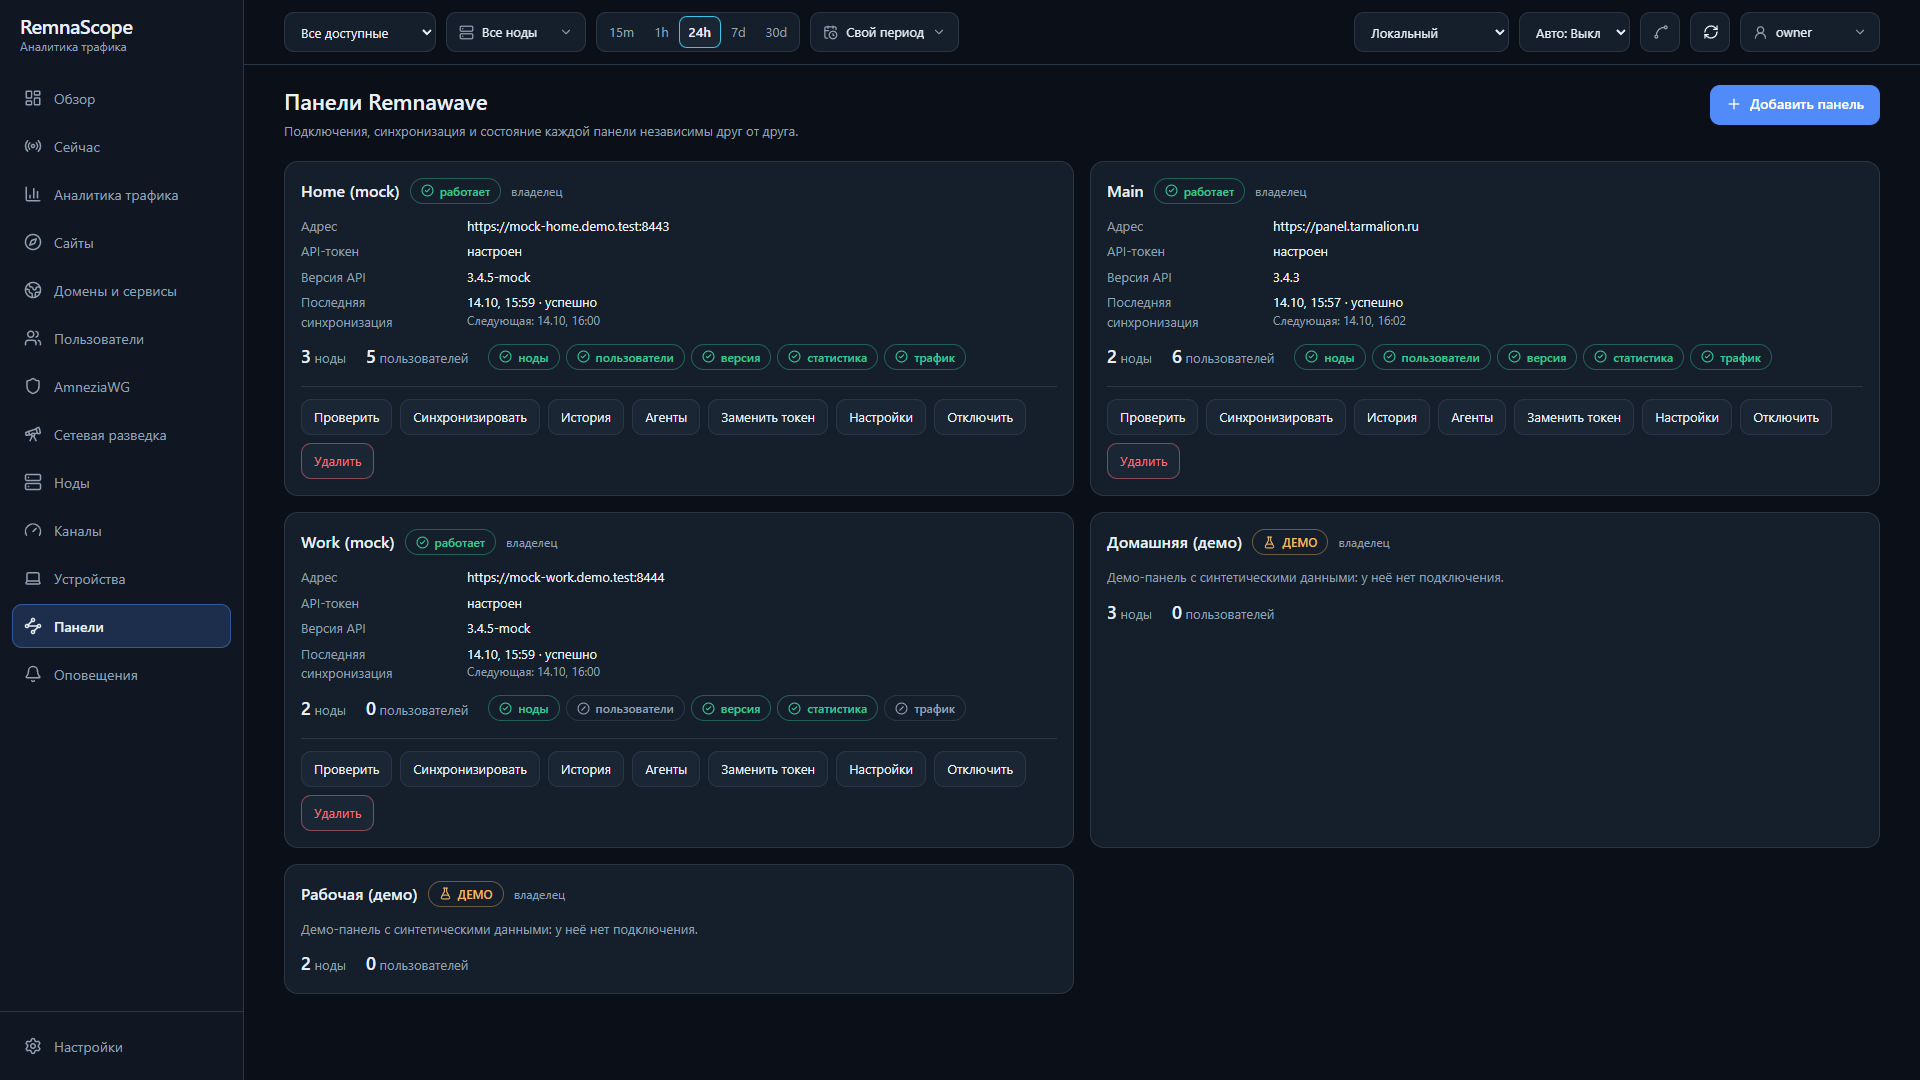
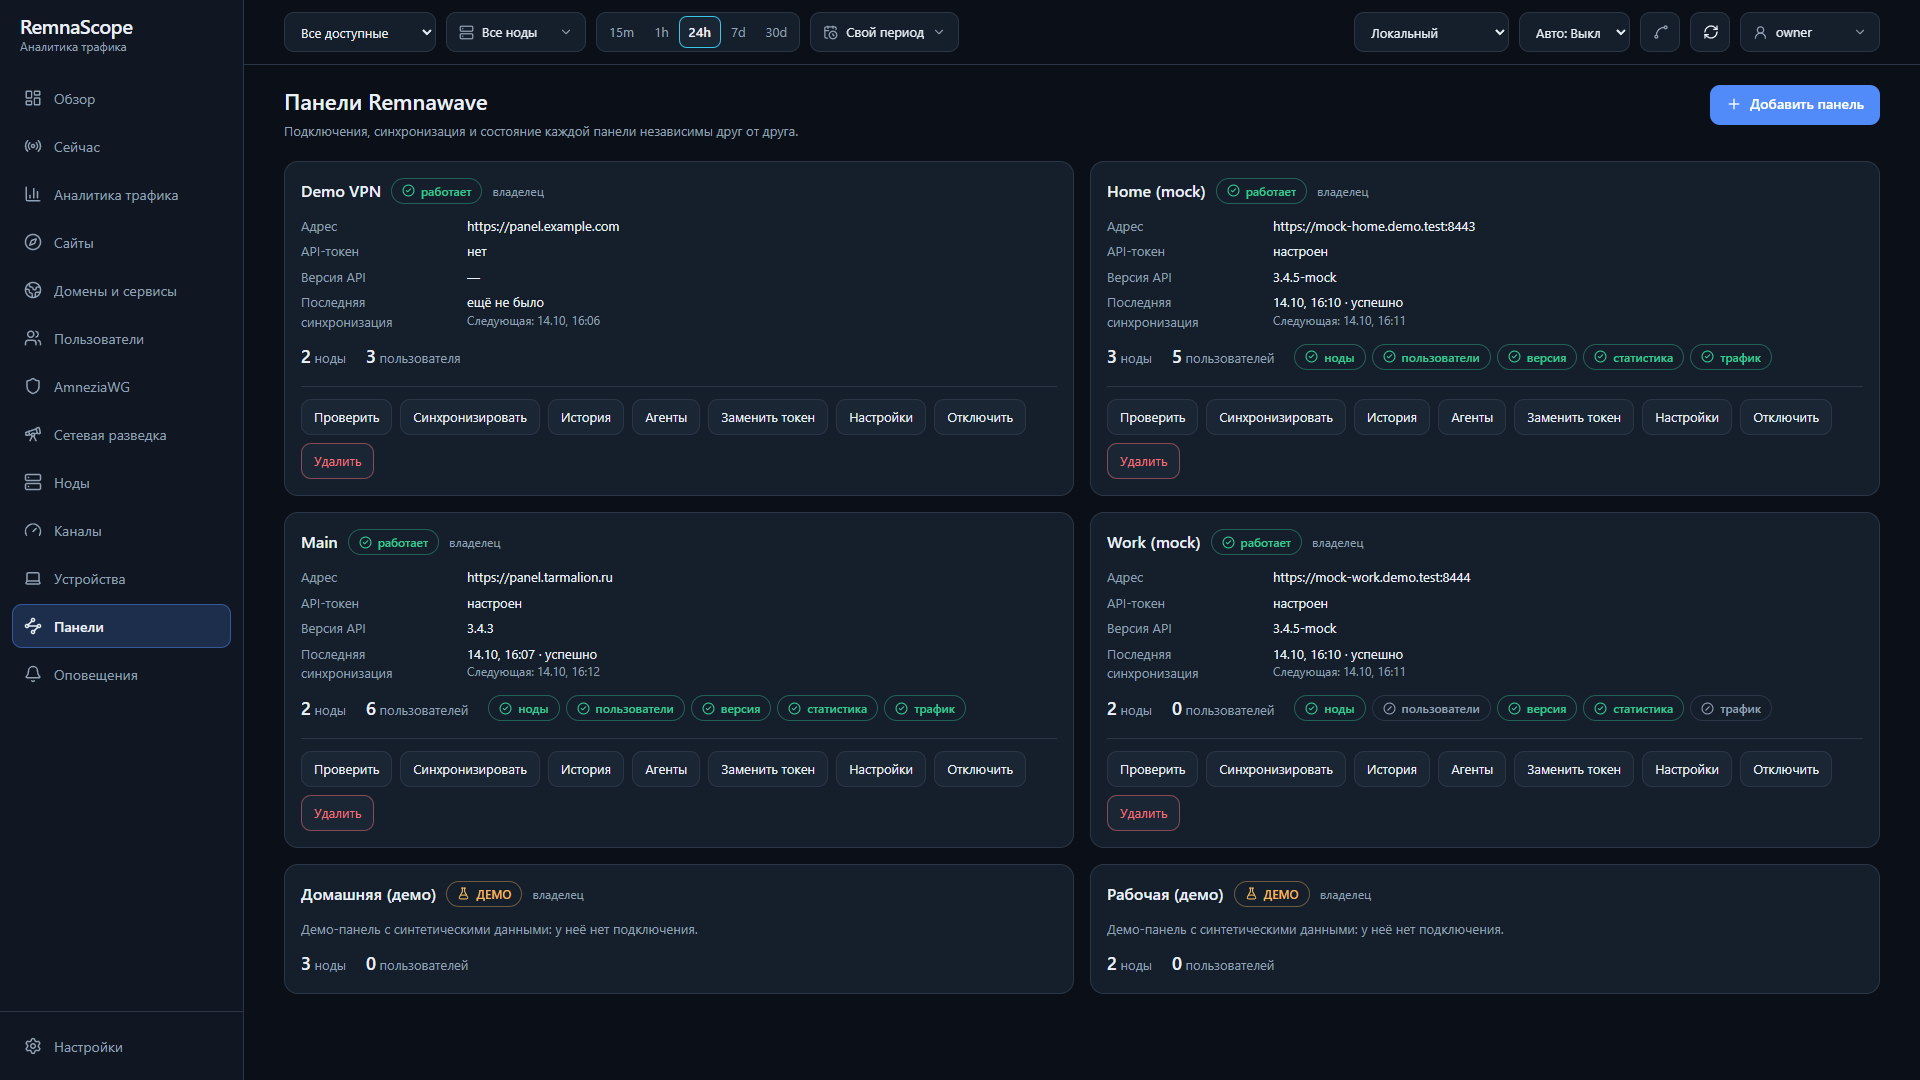
Fix RDAP lookups (follow rdap.org redirects safely), Intel error text; demo data tool and new screenshots

diff --git a/apps/web/src/pages/Intel.tsx b/apps/web/src/pages/Intel.tsx
@@ -32,9 +32,9 @@ const errText = (code?: string) => {
   const key = `intel.err.${code}` as MsgKey
   try {
     const s = t(key)
-    if (s !== key) return s
+    if (s && s !== key) return s
   } catch { /* unknown code */ }
-  return t('intel.err.other', { code: code ?? '?' })
+  return code ? t('intel.err.other', { code }) : t('intel.err.unavailable')
 }
 
 const when = (iso: string) => new Date(iso).toLocaleString('ru-RU')

diff --git a/cmd/demodata/main.go b/cmd/demodata/main.go
@@ -1,0 +1,207 @@
+// Command demodata fills a DEVELOPMENT database with invented traffic so the analyzer pages
+// (sites, domains, AmneziaWG) have something to show in screenshots and demos. Never run it
+// against a real installation: it creates a panel called "Demo VPN" and thousands of fake rows.
+//
+//	DATABASE_URL=postgres://… demodata -dev-database
+package main
+
+import (
+	"context"
+	"crypto/rand"
+	"encoding/base64"
+	"errors"
+	"flag"
+	"fmt"
+	"log"
+	mrand "math/rand"
+	"os"
+	"time"
+
+	"github.com/jackc/pgx/v5/pgxpool"
+
+	"github.com/Taminum/RemnaScope/internal/ingestproto"
+	"github.com/Taminum/RemnaScope/internal/site"
+	"github.com/Taminum/RemnaScope/internal/store"
+)
+
+const panelID = "33333333-3333-4333-8333-333333333333"
+
+var sites = []struct {
+	weight int
+	hosts  []string
+}{
+	{20, []string{"www.google.com", "mtalk.google.com", "accounts.google.com", "www.gstatic.com"}},
+	{16, []string{"rr1.googlevideo.com", "www.youtube.com", "i.ytimg.com"}},
+	{9, []string{"api.telegram.org", "web.telegram.org", "t.me"}},
+	{8, []string{"github.com", "api.github.com", "raw.githubusercontent.com"}},
+	{7, []string{"cdn.discordapp.com", "discord.com", "gateway.discord.gg"}},
+	{6, []string{"api.openai.com", "chatgpt.com"}},
+	{6, []string{"open.spotify.com", "api.spotify.com"}},
+	{5, []string{"www.reddit.com", "oauth.reddit.com"}},
+	{5, []string{"en.wikipedia.org", "upload.wikimedia.org"}},
+	{4, []string{"www.twitch.tv", "usher.ttvnw.net"}},
+	{4, []string{"store.steampowered.com", "steamcommunity.com"}},
+	{3, []string{"www.netflix.com", "occ-0-1.nflxvideo.net"}},
+	{3, []string{"www.cloudflare.com", "one.one.one.one"}},
+	{2, []string{"habr.com", "vk.com", "ya.ru"}},
+	{2, []string{"unknown-tracker.example.net", "metrics.sample-cdn.example.org"}},
+}
+
+var awgHosts = [][]string{
+	{"www.youtube.com", "rr3.googlevideo.com"}, {"www.google.com"}, {"api.telegram.org"}, {"open.spotify.com"},
+	{"github.com"}, {"www.reddit.com"}, {"www.netflix.com", "occ-0-2.nflxvideo.net"}, {"discord.com"}, {"en.wikipedia.org"},
+}
+
+var remotes = []string{"142.250.74.14", "142.250.185.206", "140.82.121.4", "151.101.1.69", "104.16.132.229", "149.154.167.99", "162.159.135.232", "199.232.69.194"}
+
+func main() {
+	ok := flag.Bool("dev-database", false, "confirm that DATABASE_URL is a development database")
+	flag.Parse()
+	if !*ok || os.Getenv("DATABASE_URL") == "" {
+		log.Fatal("refusing to run: set DATABASE_URL and pass -dev-database (this writes fake data)")
+	}
+	ctx := context.Background()
+	pool, err := pgxpool.New(ctx, os.Getenv("DATABASE_URL"))
+	if err != nil {
+		log.Fatal(err)
+	}
+	defer pool.Close()
+	s := store.New(pool)
+	rng := mrand.New(mrand.NewSource(7))
+	now := time.Now().UTC()
+	all := store.Scope{All: true}
+
+	if _, err := s.GetPanel(ctx, all, panelID); errors.Is(err, store.ErrNotFound) {
+		if _, err := s.CreatePanel(ctx, panelID, store.PanelInput{Name: "Demo VPN", BaseURL: "https://panel.example.com", Status: "active"}, nil); err != nil {
+			log.Fatal(err)
+		}
+	} else if err != nil {
+		log.Fatal(err)
+	} else {
+		log.Fatal("the demo panel already exists; remove it first (this tool is meant to run once)")
+	}
+	must(s.UpsertNodes(ctx, panelID, now, []store.NodeRecord{{RemoteUUID: "n1", Name: "node-fra"}, {RemoteUUID: "n2", Name: "node-ams"}}))
+	must(s.UpsertUsers(ctx, panelID, now, []store.UserRecord{{RemoteUUID: "2", Username: "anna", Status: "ACTIVE"}, {RemoteUUID: "3", Username: "boris", Status: "ACTIVE"}, {RemoteUUID: "4", Username: "clara", Status: "ACTIVE"}}))
+	nodes, err := s.ListNodes(ctx, all, panelID, false)
+	check(err)
+	users, _, err := s.ListUsers(ctx, all, panelID, "", 10)
+	check(err)
+
+	agents := map[string]string{}
+	for _, n := range nodes {
+		a, err := s.CreateAgent(ctx, all, panelID, n.ID, "agent-"+n.Name, "node", "", store.HashAgentSecret(token()))
+		check(err)
+		_, err = s.AgentHello(ctx, a.ID, "demo", "0.1", "demo")
+		check(err)
+		agents[n.ID] = a.ID
+	}
+
+	// connections of the last 24 hours, busier in the evening
+	total := 0
+	for i := 0; i < 9000; i++ {
+		ts := now.Add(-time.Duration(rng.Int63n(int64(24 * time.Hour))))
+		if rng.Float64() > 0.35+0.65*diurnal(ts.Hour()) {
+			continue
+		}
+		st := pickSite(rng)
+		host := st.hosts[rng.Intn(len(st.hosts))]
+		n := nodes[rng.Intn(len(nodes))]
+		u := users[rng.Intn(len(users))]
+		fp := make([]byte, 16)
+		_, _ = rand.Read(fp)
+		inbound := "Steal"
+		if rng.Intn(4) == 0 {
+			inbound = "XHTTP-TW"
+		}
+		var siteName any
+		if v := site.Of(host); v != "" {
+			siteName = v
+		}
+		_, err := pool.Exec(ctx, `INSERT INTO connection_events (event_id, panel_id, node_id, agent_id, ts, client_ip, destination_host, destination_port, protocol, inbound_tag, outbound_tag, xray_email, user_id, raw_fingerprint, site)
+			VALUES (gen_random_uuid(), $1, $2, $3, $4, $5::inet, $6, 443, $7, $8, 'DIRECT', $9, $10, $11, $12)`,
+			panelID, n.ID, agents[n.ID], ts, fmt.Sprintf("198.51.100.%d", 1+rng.Intn(40)), host, map[bool]string{true: "udp", false: "tcp"}[rng.Intn(14) == 0], inbound, u.RemoteUUID, u.ID, fp, siteName)
+		check(err)
+		total++
+	}
+	log.Printf("connections: %d", total)
+
+	// an AmneziaWG server with four devices
+	awgNode := nodes[0]
+	ag, err := s.CreateAgent(ctx, all, panelID, awgNode.ID, "awg-demo", "awg", "", store.HashAgentSecret(token()))
+	check(err)
+	keys := []string{key(), key(), key(), key()}
+	names := []string{"anna-phone", "boris-laptop", "living-room-tv", "home-router"}
+	rx := []int64{0, 0, 0, 0}
+	tx := []int64{0, 0, 0, 0}
+	for h := 24; h >= 0; h-- {
+		at := now.Add(-time.Duration(h) * time.Hour)
+		peers := make([]ingestproto.AWGPeer, 0, 4)
+		for i := range keys {
+			grow := int64((rng.Intn(40) + 5) << 20)
+			rx[i] += grow * int64(4-i) / 2
+			tx[i] += grow * int64(i+1) / 3
+			hs := at.Add(-time.Duration(rng.Intn(600)) * time.Second).Unix()
+			if i == 3 && h < 6 {
+				hs = 0
+			}
+			peers = append(peers, ingestproto.AWGPeer{Key: keys[i], Name: names[i], IP: fmt.Sprintf("10.8.1.%d/32", i+2), RX: rx[i], TX: tx[i], Handshake: hs})
+		}
+		check(s.SaveAWG(ctx, ag, ingestproto.AWG{Type: "awg", Instances: []ingestproto.AWGInstance{{Container: "amnezia-awg", Interface: "awg0", Port: 51820, Fields: []string{"Jc", "S3", "S4", "H1"}, Peers: peers}}}, at))
+		flows := []ingestproto.AWGFlow{}
+		for i := range keys {
+			for k := 0; k < 6; k++ {
+				set := awgHosts[rng.Intn(len(awgHosts))]
+				flows = append(flows, ingestproto.AWGFlow{Client: fmt.Sprintf("10.8.1.%d", i+2), Proto: 6, Remote: remotes[rng.Intn(len(remotes))], Port: 443,
+					Up: uint64(rng.Intn(400) << 10), Down: uint64((rng.Intn(9000) + 200) << 10), Name: set[rng.Intn(len(set))], How: "sni", New: 1})
+			}
+		}
+		check(s.SaveAWGFlows(ctx, ag, ingestproto.AWGFlows{Type: "awg_flows", Container: "amnezia-awg", Start: at.Unix() - 60, End: at.Unix(), Flows: flows}, at))
+	}
+	log.Print("done: open the dashboard and pick the panel \"Demo VPN\"")
+}
+
+func diurnal(h int) float64 { // 0..1, evening peak (UTC+5 viewer)
+	d := float64((h+5)%24) - 20
+	if d < 0 {
+		d = -d
+	}
+	if d > 12 {
+		d = 24 - d
+	}
+	return 1 - d/12
+}
+
+func pickSite(r *mrand.Rand) (out struct {
+	weight int
+	hosts  []string
+}) {
+	sum := 0
+	for _, s := range sites {
+		sum += s.weight
+	}
+	n := r.Intn(sum)
+	for _, s := range sites {
+		if n < s.weight {
+			return s
+		}
+		n -= s.weight
+	}
+	return sites[0]
+}
+
+func token() string {
+	b := make([]byte, 24)
+	_, _ = rand.Read(b)
+	return base64.RawURLEncoding.EncodeToString(b)
+}
+func key() string {
+	b := make([]byte, 32)
+	_, _ = rand.Read(b)
+	return base64.StdEncoding.EncodeToString(b)
+}
+func check(err error) {
+	if err != nil {
+		log.Fatal(err)
+	}
+}
+func must[T any](_ T, err error) { check(err) }

diff --git a/internal/netintel/rdapfetch.go b/internal/netintel/rdapfetch.go
@@ -1,0 +1,34 @@
+package netintel
+
+import (
+	"context"
+	"errors"
+	"net/url"
+	"strings"
+
+	"github.com/Taminum/RemnaScope/internal/safehttp"
+)
+
+// maxRDAPHops is how many redirects an RDAP lookup follows: rdap.org answers with a redirect to the
+// registry that holds the record, and that registry may redirect once more.
+const maxRDAPHops = 3
+
+// rdapGet fetches an RDAP URL and follows its redirects by hand. Every hop must be https on the
+// default port, and goes through the same guarded client as the first request, which resolves the
+// host and refuses non-public addresses before connecting.
+func (t *Tool) rdapGet(ctx context.Context, rawURL string) (*safehttp.Response, error) {
+	next := rawURL
+	for i := 0; ; i++ {
+		resp, err := t.Fetch.Get(ctx, next, nil)
+		var se *safehttp.Error
+		if err == nil || !errors.As(err, &se) || se.Code != safehttp.CodeRedirect || se.Location == "" || i >= maxRDAPHops {
+			return resp, err
+		}
+		base, perr := url.Parse(next)
+		loc, lerr := base.Parse(se.Location)
+		if perr != nil || lerr != nil || loc.Scheme != "https" || loc.User != nil || (loc.Port() != "" && loc.Port() != "443") || !strings.Contains(loc.Hostname(), ".") {
+			return nil, err
+		}
+		next = loc.String()
+	}
+}

diff --git a/internal/safehttp/safehttp.go b/internal/safehttp/safehttp.go
@@ -41,6 +41,9 @@ const (
 type Error struct {
 	Code string
 	msg  string
+	// Location is the redirect target when Code is redirect_blocked. It is for callers that decide for
+	// themselves to follow one more hop; it is never shown to operators.
+	Location string
 }
 
 func (e *Error) Error() string { return e.msg }
@@ -393,7 +396,9 @@ func (c *Client) Get(ctx context.Context, rawURL string, header http.Header) (*R
 	defer resp.Body.Close()
 
 	if resp.StatusCode >= 300 && resp.StatusCode < 400 {
-		return nil, newErr(CodeRedirect, "the server answered with a redirect, which is never followed")
+		e := newErr(CodeRedirect, "the server answered with a redirect, which is never followed")
+		e.Location = resp.Header.Get("Location")
+		return nil, e
 	}
 	if resp.ContentLength > c.pol.MaxBody {
 		return nil, newErr(CodeTooLarge, "response is larger than the allowed limit")

diff --git a/internal/netintel/lookup.go b/internal/netintel/lookup.go
@@ -308,7 +308,7 @@ func (t *Tool) rdap(ctx context.Context, ip netip.Addr) (*RDAPInfo, error) {
 	if t.Fetch == nil {
 		return nil, fmt.Errorf("unavailable")
 	}
-	resp, err := t.Fetch.Get(ctx, "https://rdap.org/ip/"+ip.String(), nil)
+	resp, err := t.rdapGet(ctx, "https://rdap.org/ip/"+ip.String())
 	if err != nil {
 		return nil, err
 	}

diff --git a/README.md b/README.md
@@ -29,7 +29,14 @@ sensor, and each figure says where it came from. If a source is not connected, t
 
 ![Overview with demo data](docs/screenshots/overview.png)
 
-Screenshots are taken from the bundled demo stack (synthetic data). More: [nodes](docs/screenshots/nodes.png), [panels](docs/screenshots/panels.png).
+Screenshots come from the dev stack with invented data (`cmd/demodata`).
+
+| | |
+|---|---|
+| ![Sites](docs/screenshots/sites.png) **Sites** | ![Domains and services](docs/screenshots/domains.png) **Domains and services** |
+| ![AmneziaWG](docs/screenshots/awg.png) **AmneziaWG** | ![Network intelligence](docs/screenshots/intel.png) **Network intelligence** |
+
+Also: [nodes](docs/screenshots/nodes.png), [panels](docs/screenshots/panels.png).
 
 ## Quick start (production)
 
@@ -81,6 +88,8 @@ cd apps/web && npm ci && npm run lint && npm test && npm run build
 Database tests need an admin connection to any Postgres, e.g. `TEST_DATABASE_URL=postgres://postgres:pw@127.0.0.1:55432/postgres`;
 each test gets its own database and they are skipped without it. Run Go tests as `./cmd/... ./internal/...`, not
 `./...`, because a local `apps/web/node_modules` can contain stray Go files.
+
+To fill the analyzer pages with invented traffic (a dev database only, never a real one): `go run ./cmd/demodata -dev-database` with `DATABASE_URL` set; then `node apps/web/scripts/readme-shots.mjs` retakes the screenshots.
 
 Without Docker: a Postgres, `go run ./cmd/api` (needs `DATABASE_URL`, `MASTER_KEY_FILE`) and
 `cd apps/web && npm run dev` (http://localhost:5173, `/api` proxied to :8080).
